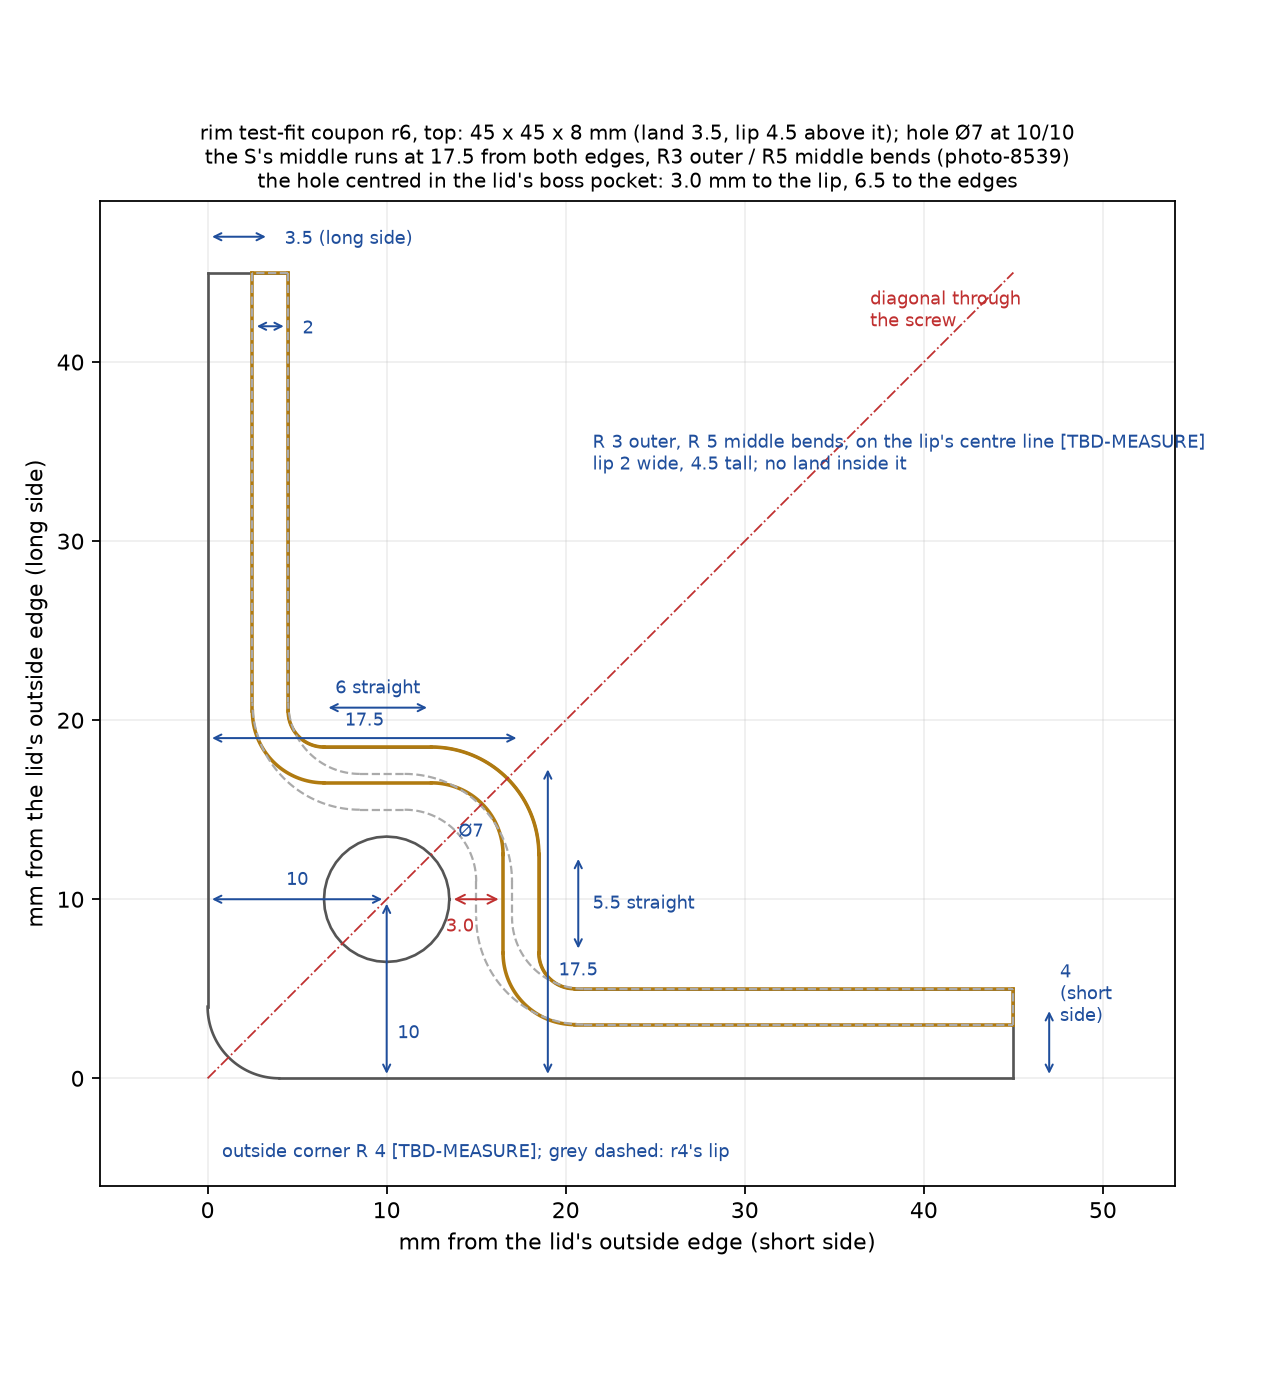
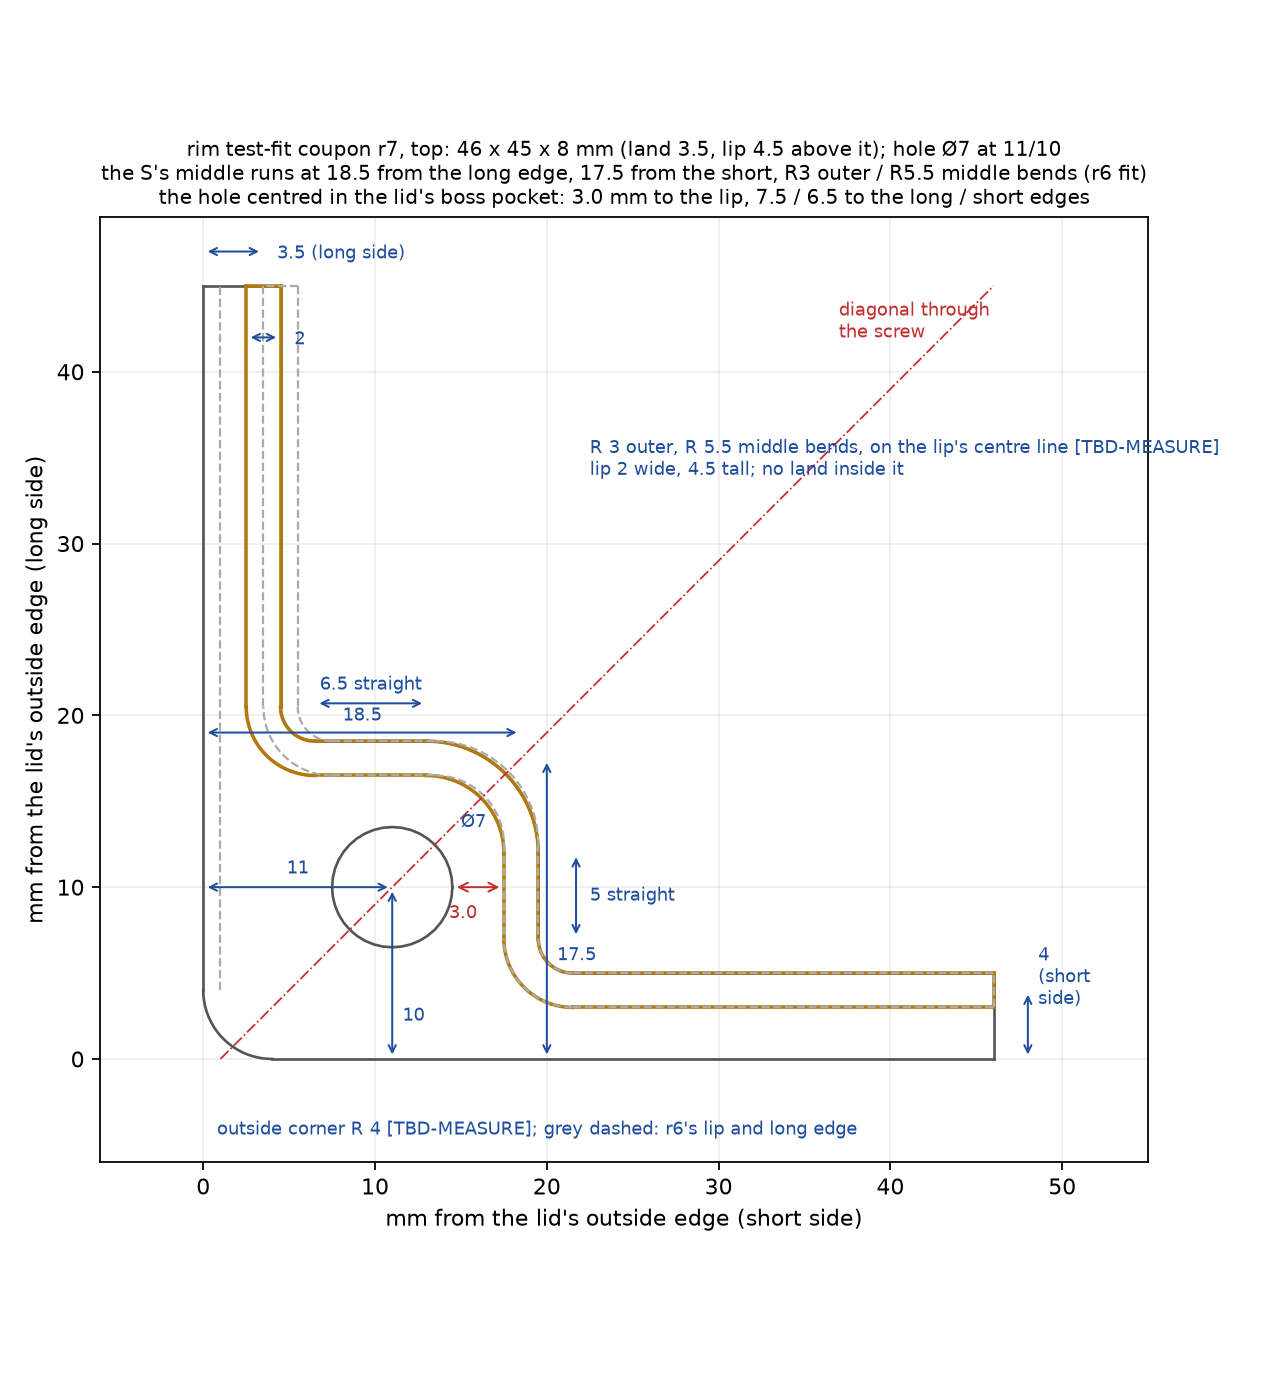
hardware: TX rim test-fit coupon r7, 1 mm wider on the long side, R5.5 middle bend
From Clint's r6 fit, the long-side edge and its lip move 1 mm outward. The coupon is now
46 x 45. The long lip stays 3.5 from its edge; the S's run along the long side moves to 18.5
and the hole to 11/10, with z unchanged. The middle bend is R5.5 and the outer bends stay R3.
In the full base the width stays at 130 (Clint's tape 130.2), and the long-side screws move
to 11 from the edge, putting them 108 apart across [TBD-MEASURE]. The top view ghosts r6.
The gate stays closed.

diff --git a/hardware/tx-stack-r1/sources.py b/hardware/tx-stack-r1/sources.py
@@ -127,15 +127,15 @@ D = {
     "rim_tongue": ((2.0, 4.5, 4.0, 3.5), "the base's sealing lip: width, height above the land, centre-line offset from the lid's outside edge on the short sides, and on the long sides; it follows the lid channel's S-curve round each corner boss; the land ends at its inner face", "height 4.5 mm above the land: coupon r3 fit (Clint, 2026-11-10): the land outside the lip lowered 1.5 mm, the lip's top unchanged (the original base's lip is 3 mm, Clint). Offsets: r1 had both at 4.5 (the channel's centre by the sketch); Clint's printed test fit of coupon r1, 2026-11-10 (photo-8533, via the coordinator): the lip moves out 0.5 mm on the short side (4.0) and 1.0 mm on the long side (3.5). Width 2.0 leaves 0.5 mm a side in the 3 mm channel", "derived"),
     "l1_lid_screw": ((8.0, 0.0, 0.0), "L1: the original lid screw: thread diameter, pitch, length (option a, a printed thread to match)", "Clint, 2026-11-10 (photo-8528 rim.jpg and notes, via the coordinator): the original base's corner holes are large moulded threads, about 8 mm (coarse plastic thread in the photo); pitch and length not measured", "TBD"),
     "lid_screw_opt": ("b", "lid screws: (a) a printed thread matching the original screw; (b) M4 stainless screws with washers through the lid's 8 mm holes into M4 heat-set inserts", "layout choice (recommended b: brass inserts survive the lid coming off many times, a printed PETG thread wears; the original screw is not needed)", "derived"),
-    "seal_curve_r": ((3.0, 5.0), "radii of the S-curve's bends round each corner boss, on the lip's centre line: the two outer bends (where it leaves the straight legs), the middle bend (round the boss's inner corner); tangent, axis-aligned exits", "Clint's photo of the lid's underside with a ruler, 2026-11-10 (photo-8539, 34.4 px/mm, about +-0.5 mm, via the coordinator): outer about R3, middle about R5", "TBD"),
-    "seal_s": ((13.5, 14.0), "the S-curve round each corner boss, lip centre line to lip centre line: the segment along the short side sits this far in from the short-side lip line, the segment along the long side this far in from the long-side lip line (both at 17.5 from the outside edges, symmetric about the corner's diagonal through the screw)", "Clint's photo of the lid's underside with a ruler, 2026-11-10 (photo-8539, 34.4 px/mm, about +-0.5 mm, via the coordinator): the S's middle runs 17.5 from both edges (r4 had 16)", "sourced"),
+    "seal_curve_r": ((3.0, 5.5), "radii of the S-curve's bends round each corner boss, on the lip's centre line: the two outer bends (where it leaves the straight legs), the middle bend (round the boss's inner corner); tangent, axis-aligned exits", "photo-8539: outer about R3; Clint's coupon r6 fit, 2026-11-10 (via the coordinator): the middle bend R5.5", "TBD"),
+    "seal_s": ((13.5, 15.0), "the S-curve round each corner boss, lip centre line to lip centre line: the segment along the short side sits this far in from the short-side lip line, the segment along the long side this far in from the long-side lip line", "photo-8539: the middle runs 17.5 from both edges; Clint's coupon r6 fit, 2026-11-10 (via the coordinator): the long-side edge and lip 1 mm further out, so the run along the long side is 18.5 from that edge", "sourced"),
     "coupon_bore": (7.0, "the rim coupon's screw hole (the full base keeps the insert's own bore, insert_m4)", "Clint's printed test fit of coupon r1, 2026-11-10 (photo-8533, via the coordinator): 25 % larger than r1's 5.6", "derived"),
     "corner_r_out": (4.0, "the lid's (and the base's) outside corner radius, in plan", "estimated from Clint's photo-8526 at about 13.4 px/mm (about 50 px); measure", "TBD"),
     "coupon_fit": (False, "test-fit coupon (cage.py --coupon): the real lid pressed onto the printed rim corner; the lip in the O-ring along both sides and round the boss's S-curve, the screw hole under the lid's hole", "pending: Clint prints it (about 20 minutes) and fits the lid; set True and sourced when it fits", "TBD"),
     "m4_washer": ((12.0, 1.0), "M4 large (fender) washer, stainless: OD x thickness, for option b, over the lid's 8 mm hole", "ISO 7093-1 size 4 (d2 12, h 1), from the standard's table as remembered: check the ones bought", "TBD"),
     "m4_screw": ((8.0, 3.1, 20.0), "M4 stainless pan-head screw: head diameter, head height, length (option b)", "ISO 7045 M4 head (dk 8, k 3.1), from the standard's table as remembered; length a layout choice: through the lid boss (L1 pending) into the 8 mm insert", "TBD"),
     "lid_pocket": (14.0, "the lid's square corner pocket, inside width (the washer must seat in it); the hole 8 mm through its floor", "pending: Clint's photo-8526 shows a square pocket with a round counterbored hole; width placeholder", "TBD"),
-    "l2_screw_pos": ((10.0, 10.0), "L2: lid screw centre from the two outside edges (long side, short side)", "Clint, 2026-11-10 (lid-measure sheet), confirmed by Clint's photo of the lid's underside with a ruler, 2026-11-10 (photo-8539, 34.4 px/mm, about +-0.5 mm, via the coordinator): the hole sits centred in the lid's boss pocket (r5's 7.5/7.5 superseded)", "sourced"),
+    "l2_screw_pos": ((10.0, 11.0), "L2: lid screw centre from the outside edges: from the short side, from the long side", "the sheet's 10/10, centred in the lid's boss pocket (photo-8539); Clint's coupon r6 fit, 2026-11-10 (via the coordinator): the long side's edge sits 1 mm further out than r6 had it, so 11 from the long side (the width kept at Clint's tape 130.2, so the screws sit 108 apart across [TBD-MEASURE])", "sourced"),
     "l4_oring_proud": (-2.0, "L4: how far the O-ring sits above (+) or below (-) the channel walls", "Clint, 2026-11-10 (lid-measure sheet, via the coordinator): inset about 2 mm below the walls", "sourced"),
     "l5_lid_out": ((175.0, 130.0, 6.0), "L5: lid outside length x width, corner radius (the base matches it; the radius in use is corner_r_out)", "length: Clint, 2026-11-10 (via the coordinator), re-measured 6-14/16 in = 174.6, agreeing with Adafruit's 175 (the earlier 6-3/4 was a misread); width about 130 by Clint's tape (Adafruit 128.5); corner radius a placeholder", "sourced"),
     "base_905": ((175.0, 131.0), "the original #905 base's outside length x width (wider than the lid)", "Adafruit #905 drawing, via the coordinator: base 131 wide against the lid's 128.5", "sourced"),

diff --git a/hardware/tx-stack-r1/cage/coupon_views.py b/hardware/tx-stack-r1/cage/coupon_views.py
@@ -37,13 +37,16 @@ def top(solid):
         ax.plot(*zip(*ln), color="#555", lw=1.2)
     for ln in outline(solid, land_h + cage.TONGUE_H / 2):
         ax.plot(*zip(*ln), color="#b07a10", lw=1.6)
-    # r4's lip, ghosted under the new one; the corner's diagonal through the screw
+    # r6's lip and long edge, ghosted in r7's frame; the corner's diagonal through the screw
     g = dict(cage.COUPON_GHOST)
     old = cage.seal_region(cage.TONGUE_W / 2, 0, 1, **dict(g)).intersect(
         cq.Workplane("XY").rect(cx, cz, centered=False).extrude(1)).cut(cage.seal_region(-cage.TONGUE_W / 2, -1, 3, **dict(g)))
     for ln in outline(old, 0.5):
         ax.plot(*zip(*ln), color="#aaa", lw=1.0, ls="--")
-    ax.plot([0, min(cx, cz)], [0, min(cx, cz)], color="#c03030", lw=0.8, ls="-.")
+    ax.plot([cage.COUPON_GHOST_EDGE] * 2, [4, cz], color="#aaa", lw=1.0, ls="--")
+    _sx, _sz = cage.SCREWS[0]
+    _o = (_sx - _sz)                                       # the 45-degree line through the screw
+    ax.plot([_o, _o + min(cx, cz)], [0, min(cx, cz)], color="#c03030", lw=0.8, ls="-.")
     ax.text(min(cx, cz) - 8, min(cx, cz) - 3, "diagonal through\nthe screw", color="#c03030", fontsize=8)
     cs, cl, w = cage.TONGUE_CS, cage.TONGUE_CL, cage.TONGUE_W
     rise, run, r, ri = cage.S_RISE, cage.S_RUN, cage.CURVE_R, cage.CURVE_RI
@@ -83,16 +86,16 @@ def top(solid):
     ax.annotate("", (hx, 0), (hx, hz), **kw)
     ax.text(hx + 0.6, hz / 2 - 2.5, f"{hz:g}", va="center", **t)
     ax.text(hx + d / 2 + 0.5, hz + d / 2, f"\u00d8{d:g}", **t)
-    ax.text(0.8, -4.4, f"outside corner R {cage.CORNER_R:g} [TBD-MEASURE]; grey dashed: r4's lip", **t)
+    ax.text(0.8, -4.4, f"outside corner R {cage.CORNER_R:g} [TBD-MEASURE]; grey dashed: r6's lip and long edge", **t)
     ax.set_aspect("equal")
     ax.set_xlim(-6, cx + 9)
     ax.set_ylim(-6, cz + 4)
     ax.set_xlabel("mm from the lid's outside edge (short side)")
     ax.set_ylabel("mm from the lid's outside edge (long side)")
-    ax.set_title(f"rim test-fit coupon r6, top: {cx:g} x {cz:g} x {ch:g} mm (land {ch - cage.TONGUE_H:g}, lip "
+    ax.set_title(f"rim test-fit coupon r7, top: {cx:g} x {cz:g} x {ch:g} mm (land {ch - cage.TONGUE_H:g}, lip "
                  f"{cage.TONGUE_H:g} above it); hole \u00d8{d:g} at {hx:g}/{hz:g}\nthe S's middle runs at "
-                 f"{cl + run:g} from both edges, R{r:g} outer / R{ri:g} middle bends (photo-8539)\nthe hole centred in the lid's boss pocket: "
-                 f"{clr:.1f} mm to the lip, {hx - d / 2:g} to the edges", fontsize=9)
+                 f"{cl + run:g} from the long edge, {cs + rise:g} from the short, R{r:g} outer / R{ri:g} middle bends (r6 fit)\nthe hole centred in the lid's boss pocket: "
+                 f"{clr:.1f} mm to the lip, {hx - d / 2:g} / {hz - d / 2:g} to the long / short edges", fontsize=9)
     ax.grid(alpha=0.2)
     fig.tight_layout()
     fig.savefig(OUT / "rim-coupon-top.png", dpi=160)
@@ -120,7 +123,7 @@ def iso(solid):
     ax.set_box_aspect((cage.COUPON[0], cage.COUPON[1], 12))
     ax.view_init(elev=35, azim=-120)
     ax.set_axis_off()
-    ax.set_title("rim test-fit coupon, iso: r6, the lip (gold) 4.5 above the land, the S as measured on the lid", fontsize=9)
+    ax.set_title("rim test-fit coupon, iso: r7, the lip (gold) 4.5 above the land, 1 mm wider on the long side", fontsize=9)
     fig.tight_layout()
     fig.savefig(OUT / "rim-coupon-iso.png", dpi=160)
 

diff --git a/hardware/tx-stack-r1/cage/cage.py b/hardware/tx-stack-r1/cage/cage.py
@@ -321,9 +321,10 @@ def coax(arm):
     return pe, yb, zb, ax
 
 
-COUPON = (45.0, 45.0, 8.0)          # the test-fit coupon (r6): one rim corner, outside footprint x height; at least
+COUPON = (46.0, 45.0, 8.0)          # the test-fit coupon (r7): x from the long-side edge, z from the short-side edge: one rim corner, outside footprint x height; at least
 CORNER_R = S.val("corner_r_out")    #   10 mm of straight lip past each outer bend
-COUPON_GHOST = dict(cs=4.0, cl=3.5, rise=12.0, run=12.5, r=5.0)   # r4's lip, ghosted on the drawing (same hole)
+COUPON_GHOST = dict(cs=4.0, cl=4.5, rise=13.5, run=14.0, r=(3.0, 5.0, 3.0))   # r6's lip in r7's frame (its long edge
+COUPON_GHOST_EDGE = 1.0                                                        #   1 mm in), ghosted on the drawing
 
 
 def coupon_seal_points(cs=None, cl=None, rise=None, run=None, far=90.0):
